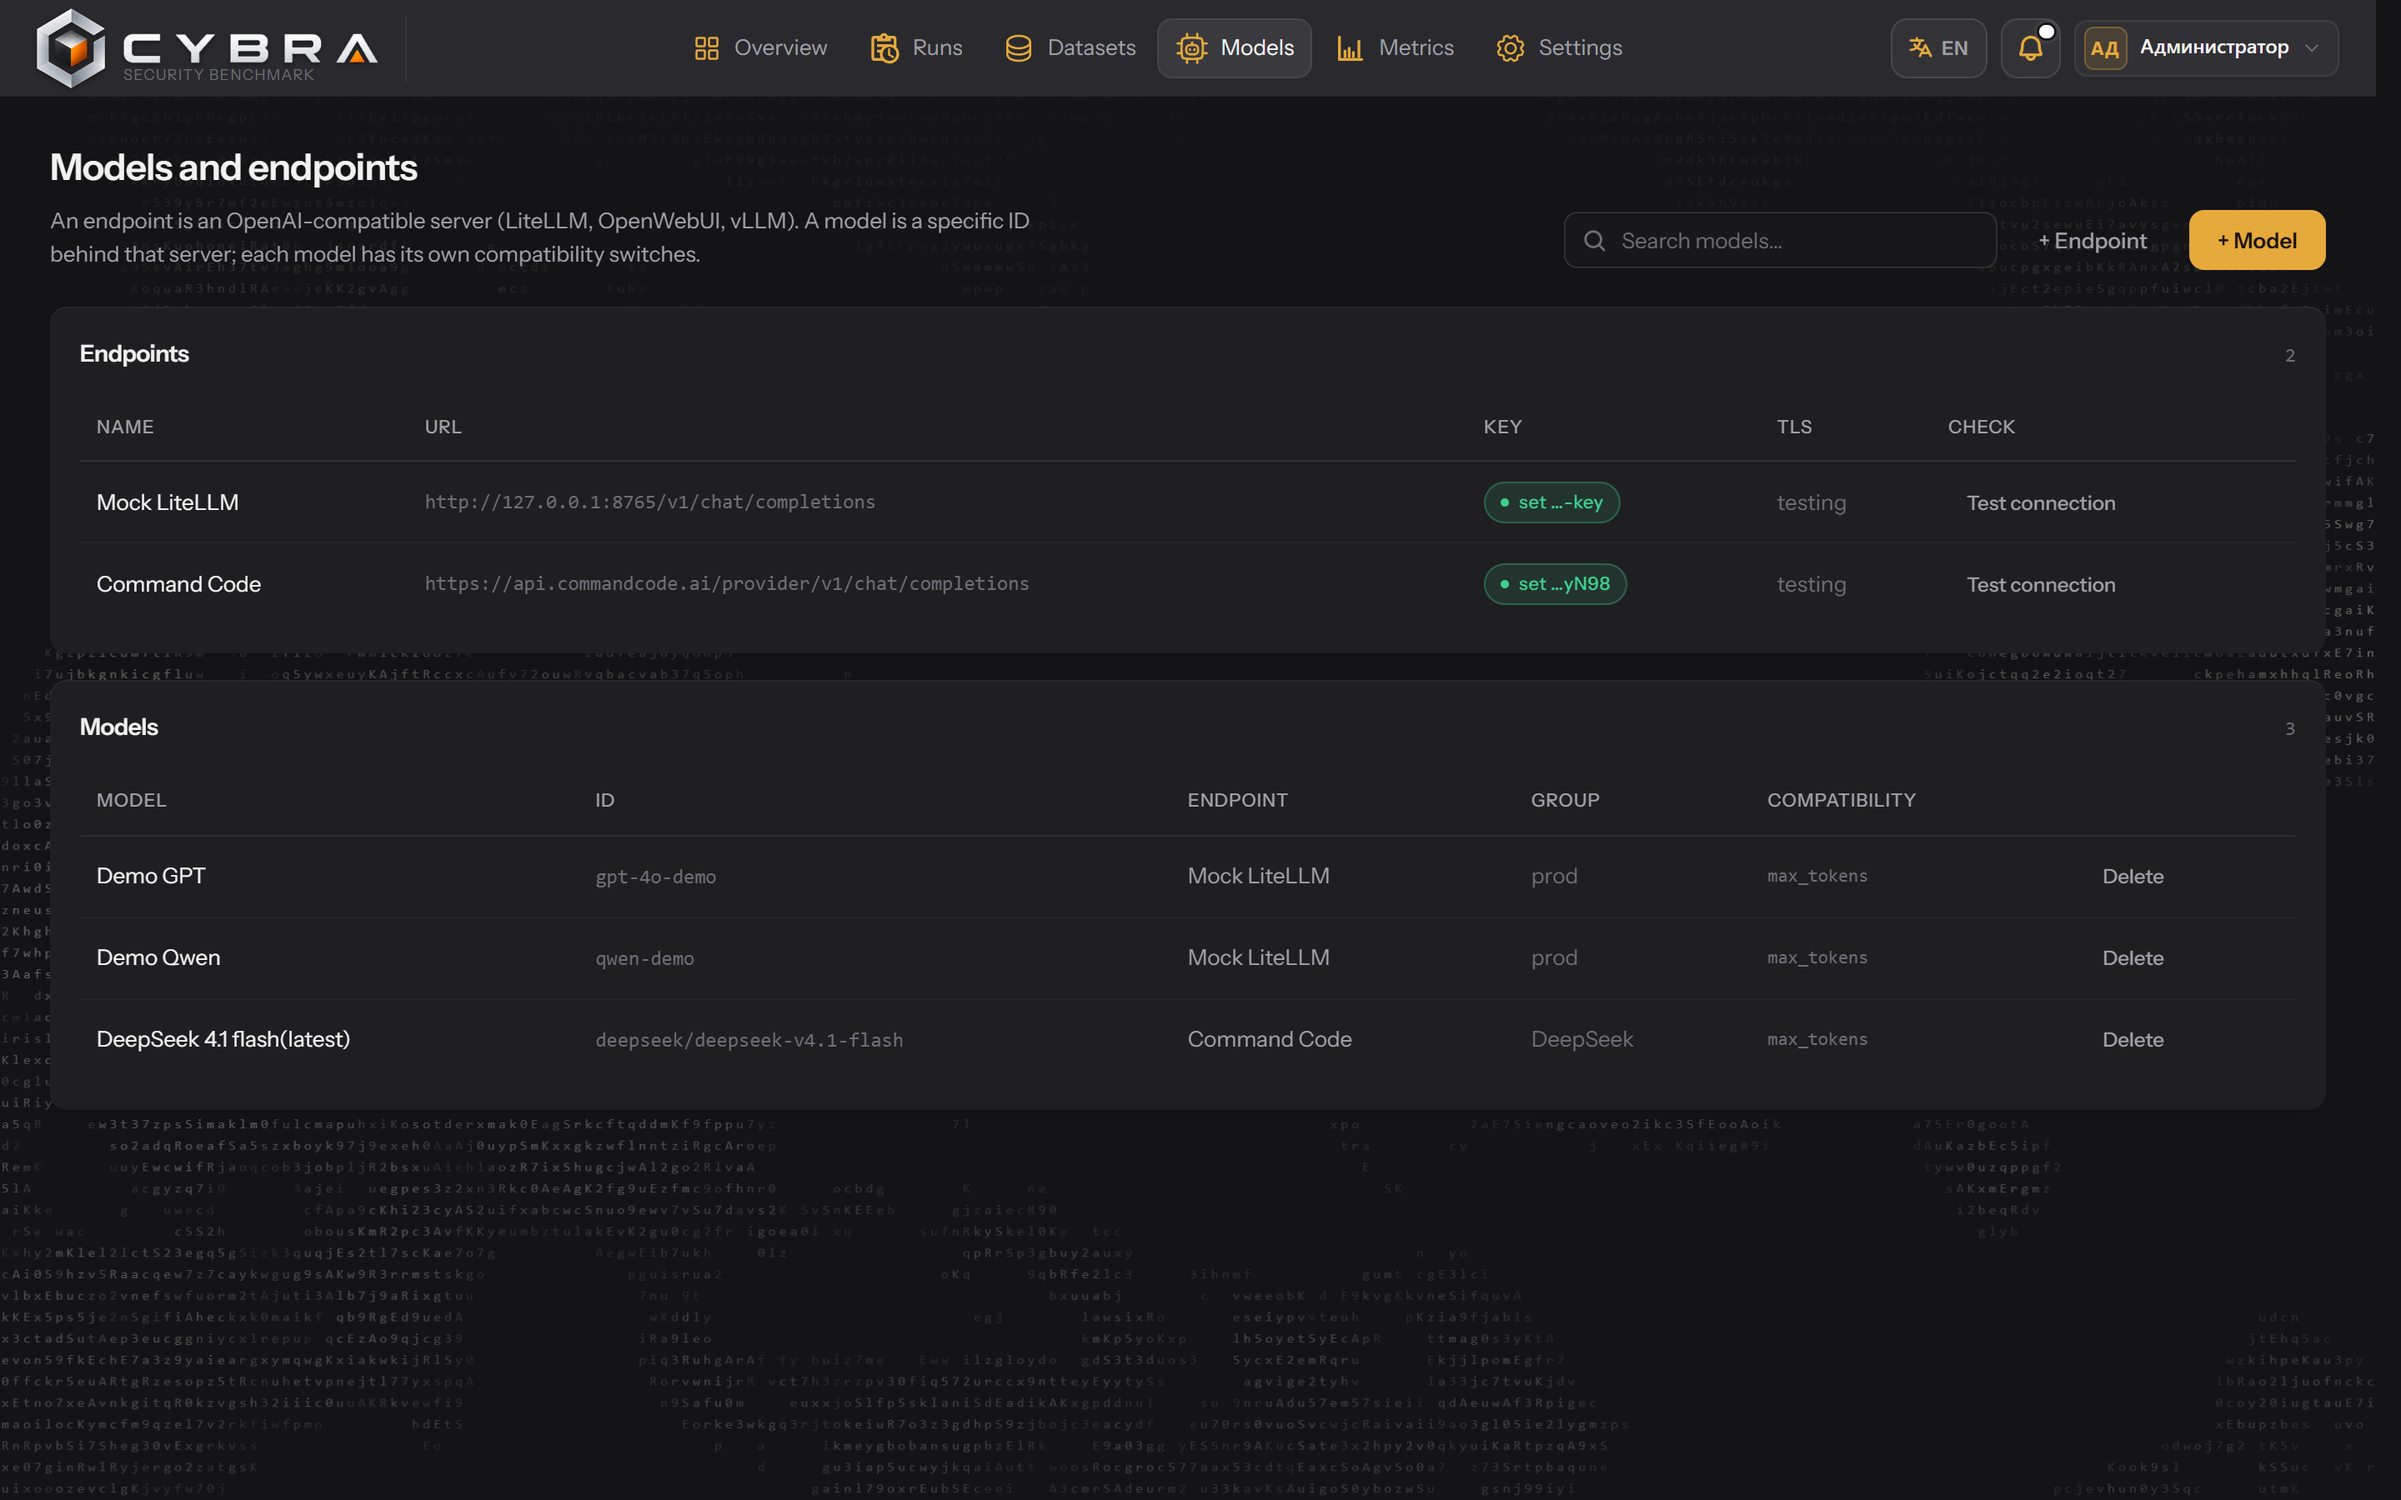
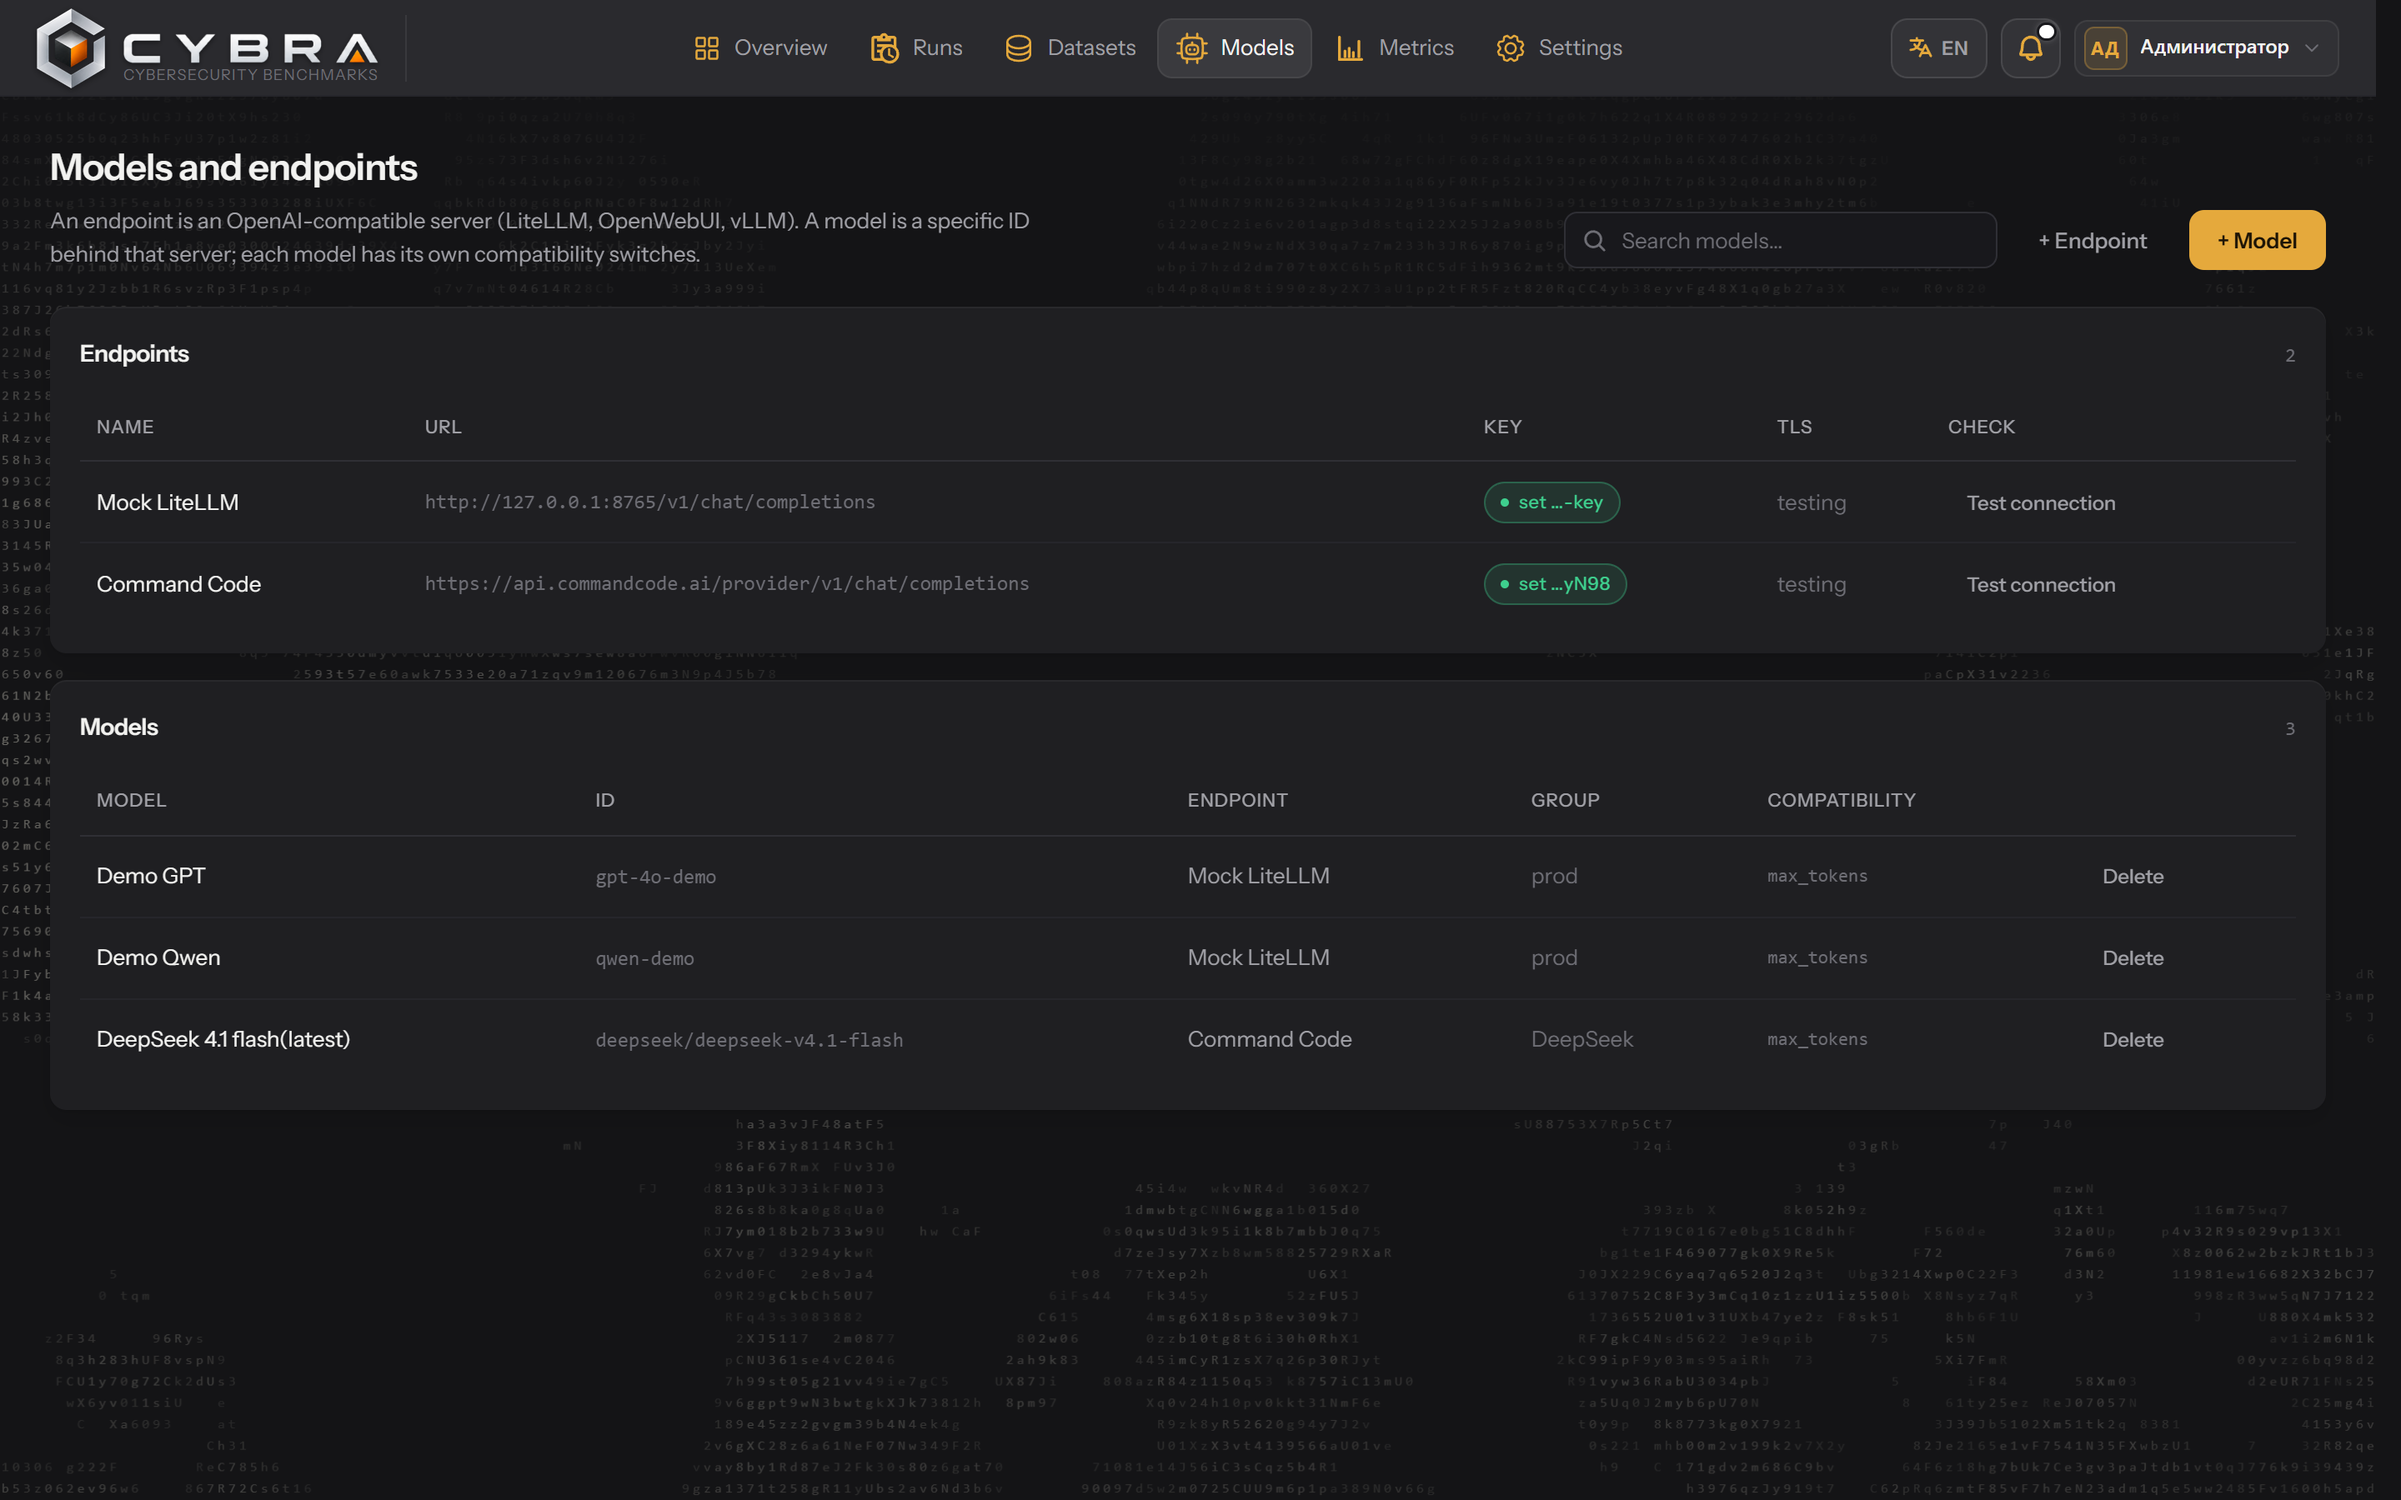
login: центрированная шапка и другая кнопка
Заказчик: «сверху всё прижато к леву, хочу красиво по центру» и «значок
в кнопке не подходит».

Шапка карточки. Логотип, заголовок и подзаголовок сведены в один
центрированный блок .login-head. Раньше фирменный знак был прижат
влево, под ним текст тоже слева, а справа оставалась пустота —
карточка читалась перекошенной. Замер: центр логотипа, заголовка и
подзаголовка совпадает с центром карточки с точностью 0.00 px.

Кнопка. Щит (ShieldCheck) заменён на стрелку (ArrowRight) справа от
текста. Щит дублировал смысл заголовка и читался как «защита», а не
как «перейти дальше»; стрелка — стандартный аффорданс перехода.
Добавлен сдвиг стрелки на 2px при наведении, отключён при
prefers-reduced-motion.

Подпись под логотипом: теперь «cybersecurity benchmarks» — по
формулировке заказчика, в шапке и на входе одинаково.

Типографика вынесена из inline-стилей в CSS: заголовок 20px, лид
13px с ограничением ширины 32ch, чтобы не растягивался на всю
карточку. Инлайновые стили мешали responsive-правкам.

README: дескрипшн обновлён на «Cybersecurity benchmarks for testing the
security of your LLM/AI models» — дословная формулировка заказчика.

Скриншоты в docs/media и docs/ru/media пересняты под новый вид.
Все 40 тестов проходят.

Changed region(s): [[0.2188, 0.7467, 0.2812, 0.8089], [0.0625, 0.0311, 0.1562, 0.0622], [0.0625, 0.7467, 0.0938, 0.7778]]

diff --git a/frontend/src/pages/Login.jsx b/frontend/src/pages/Login.jsx
@@ -1,7 +1,7 @@
 import { useState } from 'react'
 import { useAuth } from '../auth'
 import { ErrorBox } from '../components'
-import { ShieldCheck } from '../icons'
+import { ArrowRight } from '../icons'
 import { SlTextField } from '../sl-ui/react'
 import { useI18n } from '../i18n-context'
 import markUrl from '../assets/cybra-mark.png'
@@ -31,25 +31,30 @@ export default function Login() {
   return (
     <div className="login-wrap">
       <div className="login-card">
-        <div className="brand brand-login">
-          <img className="brand-logo-lg" src={markUrl} alt="" aria-hidden="true" />
-          <div className="brand-text-lg">
-            <img className="brand-word-img-lg" src={wordmarkUrl} alt="CYBRA" />
-            <div className="brand-sub">security benchmark</div>
+        {/* Шапка карточки по центру: логотип, заголовок и подзаголовок как
+            одна композиция. Раньше фирменный знак был прижат влево, а под
+            ним шёл текст тоже слева — карточка читалась перекошенной. */}
+        <header className="login-head">
+          <div className="brand brand-login">
+            <img className="brand-logo-lg" src={markUrl} alt="" aria-hidden="true" />
+            <div className="brand-text-lg">
+              <img className="brand-word-img-lg" src={wordmarkUrl} alt="CYBRA" />
+              <div className="brand-sub">cybersecurity benchmarks</div>
+            </div>
           </div>
-        </div>
 
-        <h1 style={{ fontSize: 20, marginBottom: 6 }}>{t("Вход в консоль")}</h1>
-        <p className="muted" style={{ fontSize: 13, marginTop: 0, marginBottom: 22 }}>
-          {t("Прогон бенчмарков безопасности моделей и отчёты для ИБ.")}
-        </p>
+          <h1>{t('Вход в консоль')}</h1>
+          <p className="login-lead">
+            {t('Прогон бенчмарков безопасности моделей и отчёты для ИБ.')}
+          </p>
+        </header>
 
         <ErrorBox error={error} />
 
         <form onSubmit={onSubmit}>
           <div style={{ marginBottom: 16 }}>
             <SlTextField
-              label="Email"
+              label={t('Email')}
               type="email"
               value={email}
               onChange={setEmail}
@@ -58,15 +63,18 @@ export default function Login() {
           </div>
           <div style={{ marginBottom: 20 }}>
             <SlTextField
-              label={t("Пароль")}
+              label={t('Пароль')}
               type="password"
               value={password}
               onChange={setPassword}
             />
           </div>
-          <button className="btn primary" type="submit" style={{ width: '100%' }} disabled={busy}>
-            <ShieldCheck size={16} weight="bold" />
+          {/* Стрелка вместо щита: щит в кнопке входа дублировал смысл
+              заголовка и читался как «защита», а не «перейти дальше».
+              Стрелка — стандартный аффорданс перехода. */}
+          <button className="btn primary login-submit" type="submit" disabled={busy}>
             {busy ? t('Проверка…') : t('Войти')}
+            <ArrowRight size={16} weight="bold" />
           </button>
         </form>
       </div>

diff --git a/frontend/src/styles.css b/frontend/src/styles.css
@@ -723,6 +723,53 @@ hr.sep { border: none; border-top: 1px solid var(--edge-soft); margin: 18px 0; }
   box-shadow: 0 30px 80px -40px #000;
   animation: rise 480ms var(--ease) both;
 }
+
+/* Шапка карточки входа — единая центрированная композиция.
+   Раньше логотип, заголовок и подзаголовок были прижаты влево; карточка
+   читалась перекошенной, потому что справа оставалась пустота. */
+.login-head {
+  display: flex;
+  flex-direction: column;
+  align-items: center;
+  text-align: center;
+  gap: 0;
+  margin-bottom: 24px;
+}
+.login-head .brand-login {
+  margin-bottom: 20px;
+}
+.login-head h1 {
+  font-size: 20px;
+  line-height: 1.3;
+  margin: 0 0 8px;
+}
+.login-lead {
+  color: var(--muted);
+  font-size: 13px;
+  line-height: 1.5;
+  margin: 0;
+  max-width: 32ch;
+}
+
+/* Кнопка входа: значок перехода справа от текста, а не слева.
+   Стрелка работает как аффорданс «перейти дальше» и не спорит с текстом. */
+.login-submit {
+  width: 100%;
+  display: inline-flex;
+  align-items: center;
+  justify-content: center;
+  gap: 8px;
+}
+.login-submit svg {
+  transition: transform 160ms var(--ease);
+}
+.login-submit:hover:not(:disabled) svg {
+  transform: translateX(2px);
+}
+@media (prefers-reduced-motion: reduce) {
+  .login-submit:hover:not(:disabled) svg { transform: none; }
+}
+
 @keyframes rise { from { opacity: 0; transform: translateY(10px); } to { opacity: 1; transform: none; } }
 
 .fade-in { animation: rise 380ms var(--ease) both; }

diff --git a/frontend/src/pages/Topbar.jsx b/frontend/src/pages/Topbar.jsx
@@ -117,7 +117,7 @@ export default function Topbar() {
             alt="CYBRA"
             draggable="false"
           />
-          <div className="brand-sub">security benchmark</div>
+          <div className="brand-sub">cybersecurity benchmarks</div>
         </div>
       </div>
 

diff --git a/frontend/src/icons.js b/frontend/src/icons.js
@@ -2,6 +2,7 @@
 // Package: @phosphor-icons/react (MIT). https://github.com/phosphor-icons/homepage
 export {
   ArrowClockwise,
+  ArrowRight,
   ArrowSquareOut,
   ArrowsClockwise,
   ArrowsLeftRight,

diff --git a/README.md b/README.md
@@ -1,6 +1,6 @@
 # CYBRA
 
-**Cyber Benchmark for testing the security of your models.**
+**Cybersecurity benchmarks for testing the security of your LLM/AI models.**
 
 CYBRA runs eight independent LLM security benchmarks against any
 OpenAI-compatible model and consolidates the results into one report with an
